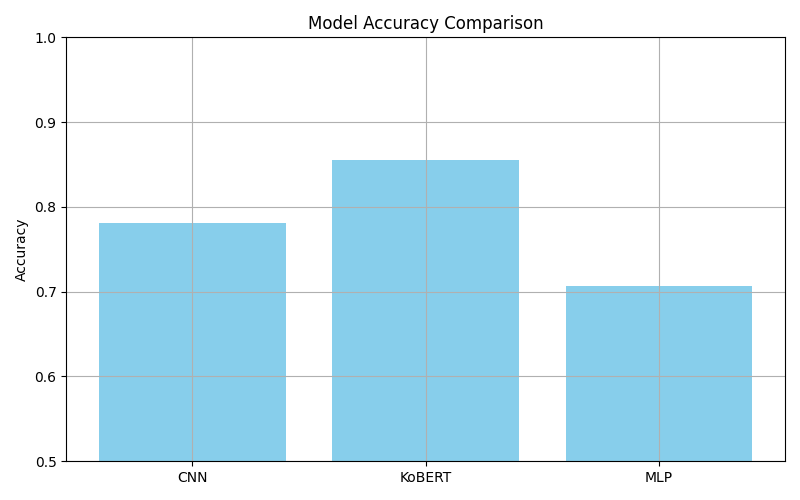
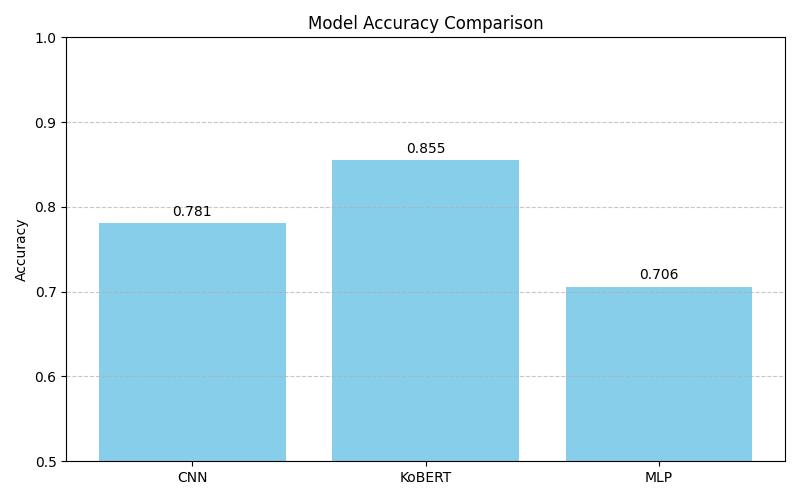
결과값은 정확하게.

Changed region(s): [[0.7812, 0.54, 0.8438, 0.6], [0.5, 0.27, 0.5625, 0.33], [0.2188, 0.39, 0.25, 0.45]]

diff --git a/sentiment-analysis/compare.py b/sentiment-analysis/compare.py
@@ -24,29 +24,32 @@ for filename in result_files:
             "F1": record["f1"]
         })
 
-# 데이터프레임 생성
+# DataFrame 생성 및 출력 (소수점 3자리)
 df = pd.DataFrame(records)
+df[["Accuracy", "F1"]] = df[["Accuracy", "F1"]].round(3)
 print("\n===== 모델 비교 결과표 =====\n")
 print(df)
 
 # 정확도 시각화
 plt.figure(figsize=(8, 5))
-plt.bar(df["Model"], df["Accuracy"], color="skyblue")
+bars = plt.bar(df["Model"], df["Accuracy"], color="skyblue")
 plt.title("Model Accuracy Comparison")
 plt.ylabel("Accuracy")
 plt.ylim(0.5, 1.0)
-plt.grid(True)
+plt.grid(True, axis="y", linestyle="--", alpha=0.7)
+plt.bar_label(bars, fmt="%.3f", padding=3)
 plt.tight_layout()
 plt.savefig("results/accuracy_plot.png")
 plt.show()
 
 # F1 시각화
 plt.figure(figsize=(8, 5))
-plt.bar(df["Model"], df["F1"], color="lightcoral")
+bars = plt.bar(df["Model"], df["F1"], color="lightcoral")
 plt.title("Model F1 Score Comparison")
 plt.ylabel("F1 Score")
 plt.ylim(0.5, 1.0)
-plt.grid(True)
+plt.grid(True, axis="y", linestyle="--", alpha=0.7)
+plt.bar_label(bars, fmt="%.3f", padding=3)
 plt.tight_layout()
 plt.savefig("results/f1_plot.png")
 plt.show()
